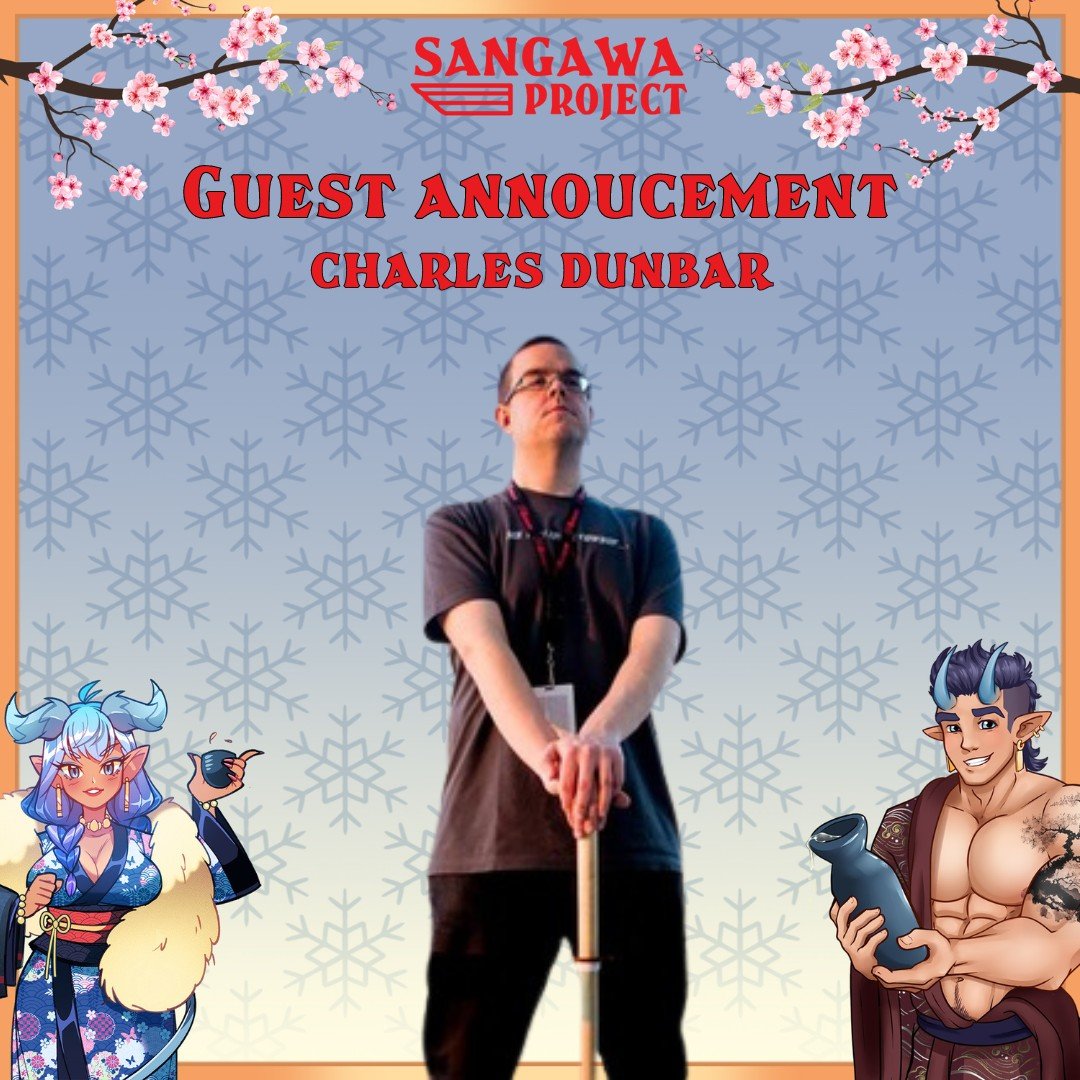
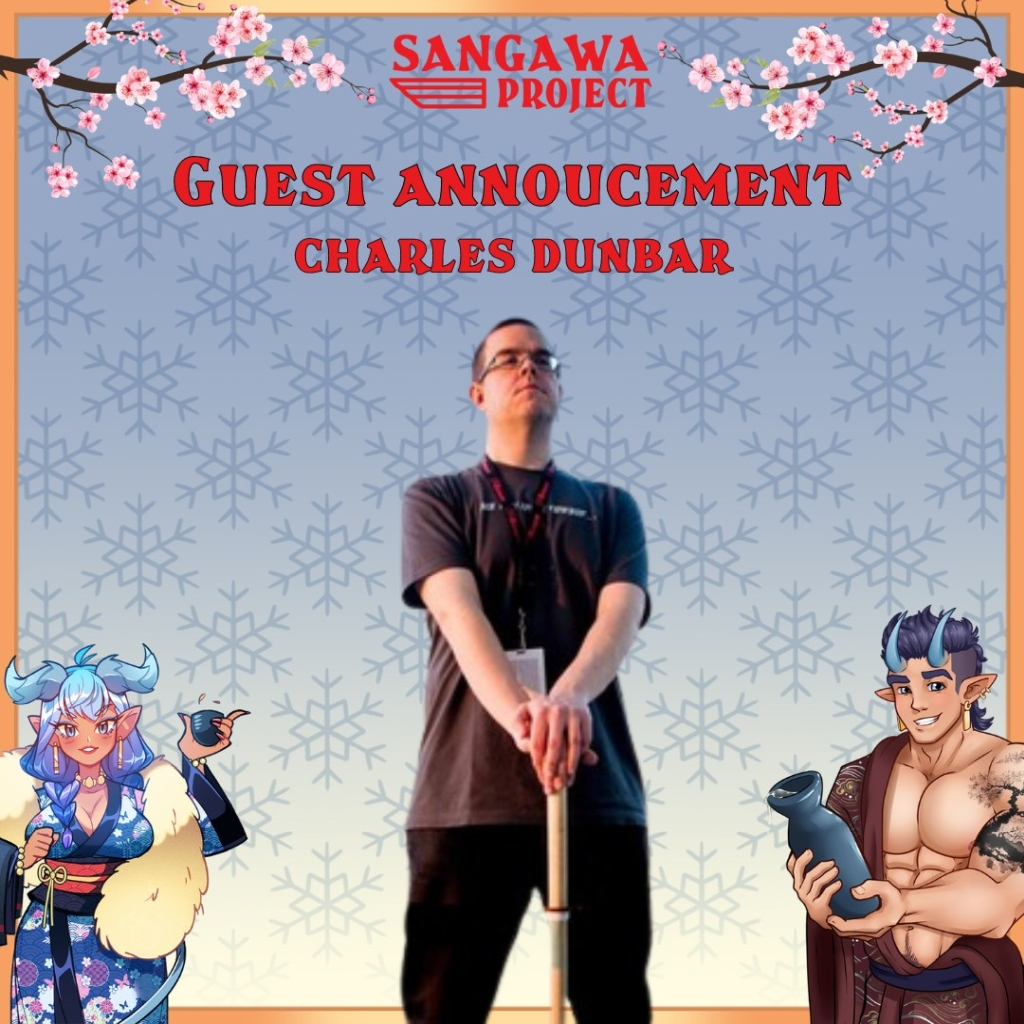
Added resized pics, added Abbii, added PohtoSets

diff --git a/src/api-client/methods/guests-page.ts b/src/api-client/methods/guests-page.ts
@@ -21,6 +21,37 @@ export const fetchGuestsPageContent = async (): Promise<Result<ContentSet>> => {
 					},
 					childContent: [
 						{
+							id: '6c630392-a3ba-49e4-bc7a-954b0f7696f7',
+							content: {
+								component: 'FeaturedContent',
+								prop__imgSrc: '/images/guests/abii_candii_2025.jpg',
+								prop__heading: 'Abii Candii',
+								prop__description:
+									'Abii Candii is a content creator who enjoys cosplay,photography, and set design. They live by the thought that anything is possible. Be yourself and create an environment where you can truly be yourself. That is what they try to do with their art and set design.',
+							},
+						},
+						{
+							id: '8c6b3f85-07f8-4431-9138-4f290c428a0c',
+							content: {
+								component: 'Image',
+								prop__src: '/images/guests/CandiiLand/cl1.jpg',
+							},
+						},
+						{
+							id: '3dd9c1a6-6fcb-47a0-9e08-e8de1457a18a',
+							content: {
+								component: 'Image',
+								prop__src: '/images/guests/CandiiLand/cl2.jpg',
+							},
+						},
+						{
+							id: '3dd9c1a6-6fcb-47a0-9e08-e8de1457a18a',
+							content: {
+								component: 'Image',
+								prop__src: '/images/guests/CandiiLand/cl3.jpg',
+							},
+						},
+						{
 							id: '4cf8199b-f043-4e4b-bee5-7b4a6ad04b9e',
 							content: {
 								component: 'FeaturedContent',
@@ -31,14 +62,14 @@ export const fetchGuestsPageContent = async (): Promise<Result<ContentSet>> => {
 							},
 						},
 						{
-							id: 'd189496c-70b6-47ce-ba0c-ef334b2fcd3c',
+							id: '380fc87e-dd7e-4799-889b-81fb98a563a0',
 							content: {
 								component: 'Image',
-								prop__src: '/images/guests/matt_shipman_price_list.png',
+								prop__src: '/images/guests/matt_shipman_price_list.jpg',
 							},
 						},
 						{
-							id: 'd189496c-70b6-47ce-ba0c-ef334b2fcd3c',
+							id: 'ebe99392-7c09-4fb6-99a5-1636b17d6d6a',
 							content: {
 								component: 'FeaturedContent',
 								prop__imgSrc: '/images/guests/brittany_lauda_2025.jpg',
@@ -56,14 +87,14 @@ Website: [Brittany Lauda](https://brittanylauda.com/)`,
 							id: 'd189496c-70b6-47ce-ba0c-ef334b2fcd3c',
 							content: {
 								component: 'Image',
-								prop__src: '/images/guests/brittany_lauda_price_list.png',
+								prop__src: '/images/guests/brittany_lauda_price_list.jpg',
 							},
 						},
 						{
 							id: '841eba7d-d566-4b92-b1b6-289502170c3f',
 							content: {
 								component: 'FeaturedContent',
-								prop__imgSrc: '/images/guests/nancy_kepner_2025.png',
+								prop__imgSrc: '/images/guests/nancy_kepner_2025.jpg',
 								prop__heading: 'Nancy Kepner',
 								prop__description:
 									'Nancy Kepner returns, equipped with her guitar and hilariously clever lyrics! You can also find her all year round on her YouTube channel  HeartfeltHumor delighting viewers with original compositions, live performances, and the occasional music video. Welcome back, Nancy!',
@@ -73,7 +104,7 @@ Website: [Brittany Lauda](https://brittanylauda.com/)`,
 							id: '9053fa61-188b-41d1-80a3-4785e7dec912',
 							content: {
 								component: 'FeaturedContent',
-								prop__imgSrc: '/images/guests/charles_dunbar_2025.png',
+								prop__imgSrc: '/images/guests/charles_dunbar_2025.jpg',
 								prop__heading: 'Charles Dunbar',
 								prop__description:
 									'Charles Dunbar is a graduate of Hunter College, CUNY, where he received a BA in Religion and Anthropology and an MA in Cultural Anthropology. His thesis, Pilgrimage, Pageantry and Fan Communities, was published in 2011 and focused on anime convention participation, including spending habits, cosplay, demographics, communal behavior and convention culture.',
